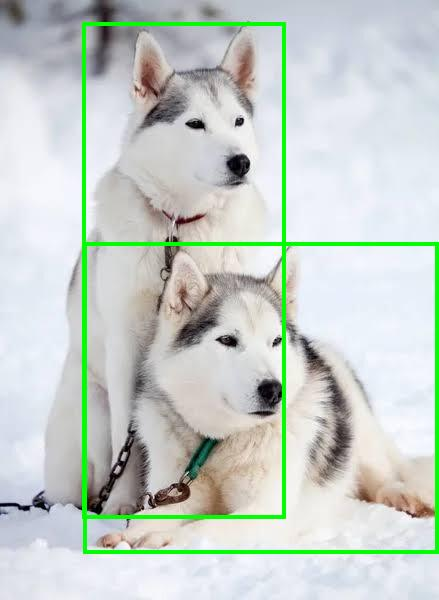
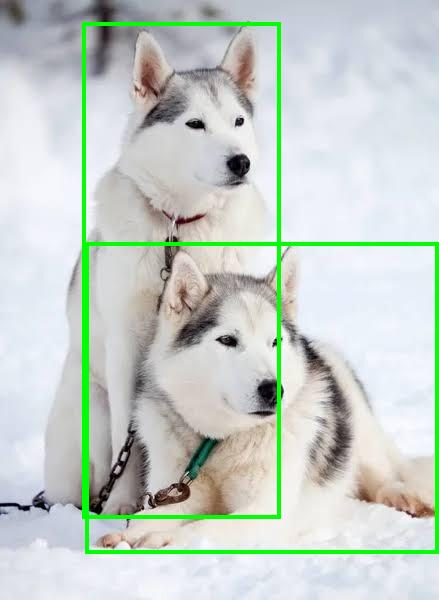
Fix: thinking mode de Qwen3.5 rompía Fase 1 con 4B, prompt más estricto
QwenVLM.ask() ahora pasa enable_thinking=False: Qwen3.5-4B/9B generan por
defecto un bloque <think>...</think> antes de la respuesta, y consumía
max_new_tokens=512 sin llegar a las cajas -- parecía que el 4B "no detectaba
nada" pero era un corte a media generación, no una limitación del modelo.
parse_boxes() ahora también descarta cualquier <think> como red de seguridad
por si algún tamaño ignora la bandera.

config.py: PROMPT_LABELING pasa al prompt más descriptivo/estricto (pide
explícitamente TODAS las instancias, cajas ajustadas, sin markdown fences),
dejando el corto original comentado como referencia.

QwenVLM.load(): device_map="auto" solo si hay CUDA disponible (para que
accelerate reparta el modelo entre las 2 GPUs de Kaggle); en CPU se fuerza
config.DEVICE explícito -- "auto" sin GPU hacía que accelerate ofreciera
"offload a disco" incluso para el modelo 0.8B, con sospecha de haber
contribuido a un pantallazo azul durante pruebas.

Verificado localmente (0.8B, CPU, 3 imágenes) sin regresiones antes de subir.

Changed region(s): [[0.6219, 0.03, 0.6515, 0.87], [0.1777, 0.39, 0.2073, 0.93]]

diff --git a/config.py b/config.py
@@ -77,32 +77,35 @@ DTYPE  = "float32"
 # Nota: se probó pedir [ymin, xmin, ymax, xmax] explícitamente y Qwen3.5 lo ignoraba,
 # respondiendo siempre con su formato nativo "bbox_2d": [x1, y1, x2, y2]. Orden
 # confirmado visualmente en data/labels_check/test_orden_*.jpg. Por eso el prompt
-# ahora pide directamente ese formato nativo en vez de pelear contra él.
+# pide directamente ese formato nativo en vez de pelear contra él.
+#
+# Prompt corto (primera versión, usado para las pruebas iniciales de Fase 1):
+# PROMPT_LABELING = (
+#     "Detect all husky dogs in this image. "
+#     "Return a JSON list of objects, each with a \"bbox_2d\" key: "
+#     "[x1, y1, x2, y2] (top-left and bottom-right corners) in a 0-1000 scale. "
+#     "Return only the JSON, no explanation."
+# )
+#
+# Prompt activo: más descriptivo/estricto (pide TODAS las instancias, cajas
+# ajustadas sin adivinar partes ocultas, sin fences de markdown).
 PROMPT_LABELING = (
-    "Detect all husky dogs in this image. "
-    "Return a JSON list of objects, each with a \"bbox_2d\" key: "
-    "[x1, y1, x2, y2] (top-left and bottom-right corners) in a 0-1000 scale. "
-    "Return only the JSON, no explanation."
+    "Locate every single husky dog visible in this image, even if there "
+    "are several of them. Do not stop after the first one -- include ALL "
+    "husky dogs you can see as separate entries in the array. "
+    "Output ONLY a JSON array, no explanation, no markdown fences, "
+    "no bold/asterisks, in this exact format: "
+    '[{"bbox_2d": [x1, y1, x2, y2], "label": "husky dog"}, ...] '
+    "where coordinates are normalized to a 0-1000 scale relative to the "
+    "image width and height, (x1, y1) is the top-left corner and "
+    "(x2, y2) is the bottom-right corner. "
+    "Each box must be a TIGHT bounding box around only the VISIBLE part of "
+    "each dog's body. If a dog is partially occluded by another dog, an "
+    "object, or the edge of the image, draw the box only around the "
+    "visible pixels of that dog -- do NOT guess or extend the box to cover "
+    "body parts that are hidden or not visible in the image. "
+    "If no husky dog is visible, output []."
 )
-"""
-PROMPT_LABELING = (
-   "Locate every single husky dog visible in this image, even if there "
-    "are several of them. Do not stop after the first one -- include ALL "
-    "husky dogs you can see as separate entries in the array. "
-    "Output ONLY a JSON array, no explanation, no markdown fences, "
-    "no bold/asterisks, in this exact format: "
-    '[{"bbox_2d": [x1, y1, x2, y2], "label": "husky dog"}, ...] '
-    "where coordinates are normalized to a 0-1000 scale relative to the "
-    "image width and height, (x1, y1) is the top-left corner and "
-    "(x2, y2) is the bottom-right corner. "
-    "Each box must be a TIGHT bounding box around only the VISIBLE part of "
-    "each dog's body. If a dog is partially occluded by another dog, an "
-    "object, or the edge of the image, draw the box only around the "
-    "visible pixels of that dog -- do NOT guess or extend the box to cover "
-    "body parts that are hidden or not visible in the image. "
-    "If no husky dog is visible, output [].
-)
-"""
 
 PROMPT_VALIDATION = (
     "Is this a husky dog inside this image crop? Answer only Yes or No."

diff --git a/src/utils.py b/src/utils.py
@@ -36,10 +36,22 @@ class QwenVLM:
     def load(self):
         """Carga el processor y el modelo. Debe llamarse antes de ask()."""
         self.processor = AutoProcessor.from_pretrained(self.model_id)
+
+        # "auto" deja que accelerate reparta las capas del modelo entre todas las
+        # GPUs visibles (útil en máquinas multi-GPU como Kaggle T4x2, para modelos
+        # que no caben en float32 en una sola tarjeta). PERO solo se usa si hay
+        # CUDA disponible: en esta laptop (sin GPU) "auto" hizo que accelerate
+        # ofreciera "offload a disco" incluso para el modelo 0.8B (mensaje
+        # "parameters are on the meta device... offloaded to the cpu and disk"),
+        # generando E/S de disco pesada y riesgo real de tumbar la máquina (ver
+        # CLAUDE.md). Sin GPU, se fuerza config.DEVICE ("cpu") explícito, tal
+        # como funcionaba antes de agregar el soporte multi-GPU.
+        device_map = "auto" if torch.cuda.is_available() else config.DEVICE
+
         self.model = AutoModelForMultimodalLM.from_pretrained(
             self.model_id,
             dtype=getattr(torch, config.DTYPE),
-            device_map=config.DEVICE,
+            device_map=device_map,
         )
         return self
 
@@ -51,6 +63,11 @@ class QwenVLM:
 
         Sigue el patrón de uso oficial de la tarjeta del modelo en Hugging Face
         (huggingface.co/Qwen/Qwen3.5-0.8B).
+
+        enable_thinking=False: Qwen3.5 (sobre todo el 4B y 9B) genera por defecto
+        un bloque de razonamiento <think>...</think> antes de la respuesta final.
+        No lo necesitamos para detección de cajas ni para el Yes/No de validación,
+        y consumía max_new_tokens sin llegar a la respuesta real. Ver CLAUDE.md.
         """
         if self.model is None or self.processor is None:
             raise RuntimeError("Modelo no cargado. Llama a load() antes de ask().")
@@ -71,6 +88,7 @@ class QwenVLM:
             tokenize=True,
             return_dict=True,
             return_tensors="pt",
+            enable_thinking=False,
         ).to(self.model.device)
 
         with torch.no_grad():
@@ -97,7 +115,14 @@ def parse_boxes(response: str) -> list[list[float]]:
     Orden [x1, y1, x2, y2] confirmado visualmente dibujando las cajas sobre 3
     imágenes de prueba: ver data/labels_check/test_orden_*.jpg (generadas por
     src/test_box_order.py).
+
+    Quita primero cualquier bloque <think>...</think>: aunque QwenVLM.ask() ya
+    pide enable_thinking=False, algunos tamaños (ej. 0.8B) pueden entrar en modo
+    thinking de todos modos; sin esto, corchetes dentro del razonamiento podrían
+    confundir el regex de abajo.
     """
+    response = re.sub(r"<think>.*?</think>", "", response, flags=re.DOTALL)
+
     match = re.search(r"\[.*\]", response, re.DOTALL)
     if match is None:
         return []

diff --git a/CLAUDE.md b/CLAUDE.md
@@ -10,7 +10,7 @@ This is an early-stage academic project (VLM-assisted auto-labeling + YOLO trans
 
 `config.AUTO_LABELING_LIMIT` is currently `None` (set for the real full run), but `data/labels_auto/`/`data/labels_check/` only have output for 6 images so far (`husky_000`-`004` and `husky_064`, non-contiguous) — the full 100-image run hasn't actually been executed yet. Don't assume all 100 are labeled without checking.
 
-`config.py` also has a commented-out **draft alternate `PROMPT_LABELING`** (a bare triple-quoted string right after the active prompt, syntactically valid but inert — acts as a big comment) with stricter instructions (tight boxes, no guessing occluded parts, explicit no-markdown-fences). Not active; kept for future prompt-engineering experiments (relevant to the assignment's prompt-sensitivity question).
+`config.py`'s `PROMPT_LABELING` was switched to a longer, stricter version (explicitly asks for ALL dogs, tight boxes, no guessing occluded parts, no markdown fences) after observing the shorter original sometimes stopped at the first dog or wandered in output format. The short original is kept commented above it for reference (prompt-sensitivity evidence for the assignment questionnaire).
 
 **Project convention: no CLI arguments.** Scripts (`auto_labeling.py`, and presumably `hybrid_inference.py`/`train_yolo.py` once written) take no `argparse` flags — anything that needs to vary between runs (which Qwen size to use, how many images to process, etc.) is a variable in `config.py` instead, edited by hand. This was an explicit project decision, not an oversight — don't reintroduce CLI args without checking first.
 
@@ -25,6 +25,7 @@ This laptop has **no NVIDIA/CUDA GPU** (AMD integrated graphics only), despite t
 - Dependencies (`torch`, `transformers`, `accelerate`) live in the **conda env `tarea3`** (`C:\Users\Armando\anaconda3\envs\tarea3`), which already had `torch`/`torchvision`/`ultralytics`/`pillow` from a prior assignment. Run scripts with `conda run -n tarea3 python src/<script>.py`, or `conda activate tarea3` first. `requirements.txt` lists these for other environments (e.g. Google Colab), but this laptop's actual env was set up manually, not via `pip install -r requirements.txt`.
 - Considered Ollama (quantized GGUF, much lower RAM) as an alternative runtime if memory keeps being a blocker — not adopted yet, would require rewriting `QwenVLM` to talk to Ollama's HTTP API instead of `transformers`.
 - **Running on Google Colab (GPU)**: clone the repo (images are committed, no separate download needed), `pip install transformers accelerate ultralytics` (torch/torchvision already preinstalled with CUDA), then flip `DEVICE`/`DTYPE` to `"cuda"`/`"float16"` and `QWEN_LABELER` to a bigger size in `config.py` before running. Colab sessions are ephemeral — anything not committed back to the repo (or copied to Drive) is lost when the session ends; `*.pt`/`runs/` are gitignored on purpose so trained weights won't survive unless explicitly pushed/saved elsewhere.
+- **Running on Kaggle (2× T4 GPUs)**: same idea as Colab, but `!pip install -U transformers accelerate ultralytics -q` (Kaggle's preinstalled `transformers` may be too old to recognize the `qwen3_5` architecture — `KeyError: 'qwen3_5'` if so; must `-U` since a bare install won't upgrade an already-present package, and the notebook kernel must be restarted afterward for the new version to load). Kaggle has no built-in file editor — modify `config.py` from a cell with `!sed -i` or `%%writefile`, not by clicking it in the file panel (that only opens a read-only preview). `QwenVLM.load()` passes `device_map="auto"` **only when `torch.cuda.is_available()`** specifically so `accelerate` can shard a model across both T4s when it doesn't fit in float32 on one (e.g. loading the 4B unquantized) — see design note below for why this is conditional, not unconditional.
 
 ### Model IDs — real names differ from the PDF spec
 
@@ -51,8 +52,12 @@ Holds both Qwen/VLM stuff and the YOLO detector wrapper together in one file —
 
 Qwen section:
 - `QwenVLM` class — `__init__(model_id)`, `load()`, `ask(image, prompt) -> str` (generic: runs the model and returns raw text, used both for the detection prompt and the binary Yes/No validation prompt).
-- `parse_boxes(response) -> list[[x1, y1, x2, y2]]` — Qwen-specific, parses its raw text response into boxes on the 0-1000 scale. **Important:** despite `PROMPT_LABELING` literally asking for `[ymin, xmin, ymax, xmax]`, Qwen3.5 ignores that and always responds in its native "grounding" schema `[{"bbox_2d": [x1, y1, x2, y2], "label": ...}, ...]`. Verified visually by drawing both interpretations on 3 sample images (see `data/labels_check/test_orden_*.jpg`, generated by `src/test_box_order.py`) — the `bbox_2d` `[x1,y1,x2,y2]` order was the one that actually bounded the dogs correctly. `PROMPT_LABELING` was updated to ask for this native format directly instead of fighting it.
+- `parse_boxes(response) -> list[[x1, y1, x2, y2]]` — Qwen-specific, parses its raw text response into boxes on the 0-1000 scale. **Important:** despite `PROMPT_LABELING` literally asking for `[ymin, xmin, ymax, xmax]`, Qwen3.5 ignores that and always responds in its native "grounding" schema `[{"bbox_2d": [x1, y1, x2, y2], "label": ...}, ...]`. Verified visually by drawing both interpretations on 3 sample images (see `data/labels_check/test_orden_*.jpg`, generated by `src/test_box_order.py`) — the `bbox_2d` `[x1,y1,x2,y2]` order was the one that actually bounded the dogs correctly. `PROMPT_LABELING` was updated to ask for this native format directly instead of fighting it. Also strips any `<think>...</think>` block before searching for the JSON — see thinking-mode note below.
 - `convert_to_yolo(box, class_id) -> str` — generic geometry/format conversion (0-1000 scale `[x1,y1,x2,y2]` → normalized YOLO `class_id x_center y_center width height`), not actually Qwen-specific but kept here anyway per the merge decision above. Round-trip verified by `src/test_box_order.py` (Qwen box → YOLO line → back to pixels → drawn).
+
+**Thinking mode (`enable_thinking=False`):** Qwen3.5-4B/9B operate in "thinking mode" by default — they emit a `<think>...</think>` reasoning block *before* the actual answer (per their model cards; 0.8B defaults to non-thinking but "is more prone to entering thinking loops" per its own card). This broke Fase 1 with the 4B model: `ask()`'s `max_new_tokens=512` was getting consumed by the thinking block, so generation got cut off before ever producing the boxes JSON — looked like "the 4B can't detect dogs" but was actually a truncation/parsing bug, not a capability gap. Fixed by passing `enable_thinking=False` to `apply_chat_template()` in `ask()`, plus stripping `<think>...</think>` in `parse_boxes()` as a defense-in-depth in case a model size ignores the flag.
+
+**`device_map` is conditional on CUDA, not unconditionally `"auto"`:** `load()` uses `device_map = "auto" if torch.cuda.is_available() else config.DEVICE`. Originally tried unconditional `device_map="auto"` (to let `accelerate` shard a model across Kaggle's 2 GPUs) — but on this CPU-only laptop, `"auto"` made `accelerate` decide to offload part of even the tiny 0.8B model to **disk** (`"parameters are on the meta device... offloaded to the cpu and disk"`), causing heavy disk I/O; suspected contributor to a Windows BSOD during testing. Guard it so `"auto"` only kicks in when `torch.cuda.is_available()` is true (multi-GPU Kaggle sessions); otherwise falls back to `config.DEVICE` exactly like before, with no disk-offload guessing.
 
 YOLO section:
 - `YOLODetector` class — `__init__(model_path=config.YOLO_TRAINED)`, `load()` (wraps `ultralytics.YOLO`), `detect(image) -> list[dict]` (runs inference with `config.CONF_THRESHOLD`/`IOU_THRESHOLD`, returns `{"box": (x1,y1,x2,y2) in pixels, "conf": float, "class_id": int}` per detection), `crop(image, box, padding=config.CROP_PADDING) -> Image` (crops a detection with margin, clamped to image bounds, for feeding into the Qwen validator in Fase 4).
